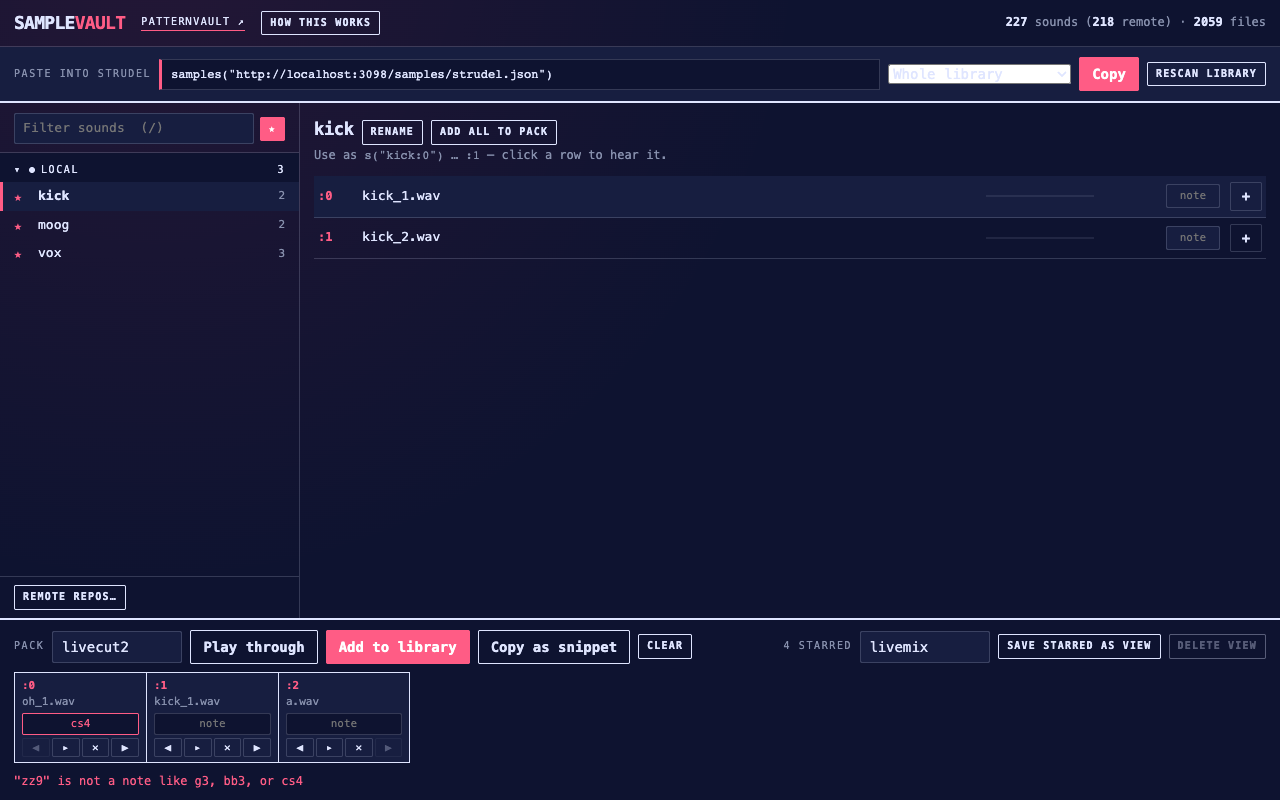
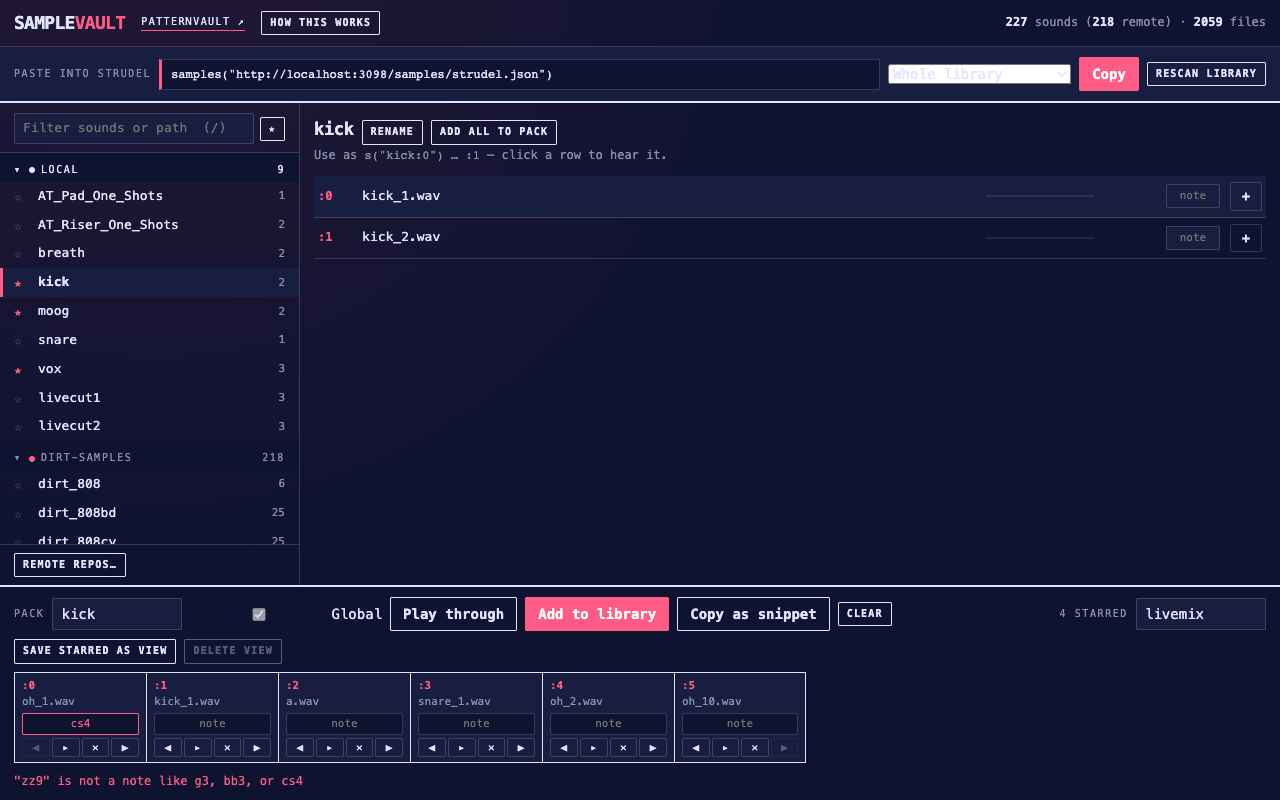
feat: added namespaced pack support

diff --git a/ui/index.html b/ui/index.html
@@ -313,6 +313,7 @@
   <div class="bench-head">
     <span class="lede">Pack</span>
     <input id="packname" value="mypack" spellcheck="false" autocomplete="off">
+    <label style="display:flex;align-items:center;gap:4px"><input type="checkbox" id="packglobal"> <span id="packglobal-lbl">Global</span></label>
     <button class="btn" id="playpack">Play through</button>
     <button class="btn primary" id="publish">Add to library</button>
     <button class="btn" id="copypack">Copy as snippet</button>
@@ -335,7 +336,10 @@ const STORE = 'samplevault:pack'
 
 const state = {
   base: '',
-  sounds: {},
+  baseSounds: {},        // whole-library sounds + global packs, from strudel.json
+  sounds: {},            // baseSounds plus whichever view's scoped packs are active
+  packs: [],             // raw GET /api/packs — every pack, any scope
+  packScope: {},         // sound name -> view, for entries overlaid from a scoped pack
   origin: {},
   sources: [],
   views: [],
@@ -436,6 +440,31 @@ function renderConnect() {
 
 /* ---------- rail ---------- */
 
+/**
+ * Packs scoped to a view are excluded from the whole-library manifest (so
+ * they don't collide with a same-named pack in another view), so they only
+ * become visible/audition-able in the rail while their view is the one
+ * selected up top.
+ */
+function applyScopedPacks() {
+  const chosen = $('viewpick').value
+  state.sounds = { ...state.baseSounds }
+  state.packScope = {}
+  for (const p of state.packs) {
+    if (chosen && p.view === chosen) {
+      state.sounds[p.name] = p.files
+      state.packScope[p.name] = p.view
+    }
+  }
+}
+
+function syncPackGlobal() {
+  const view = $('viewpick').value
+  $('packglobal').disabled = !view
+  $('packglobal').checked = !view
+  $('packglobal-lbl').textContent = view ? `Scope to "${view}"` : 'Global'
+}
+
 function visibleNames() {
   const q = state.filter.toLowerCase()
   return Object.keys(state.sounds).filter((n) => {
@@ -476,7 +505,9 @@ function renderSounds() {
         const dir = p0.includes('/') ? p0.slice(0, p0.lastIndexOf('/')) : p0
         return `
         <button class="sound-btn" data-sound="${esc(name)}" aria-current="${name === state.current}" title="${esc(name)}  —  ${esc(dir)}">
-          <span class="star" role="button" tabindex="-1" data-star="${esc(name)}" aria-pressed="${state.starred.has(name)}" title="Star for a view">${state.starred.has(name) ? '★' : '☆'}</span>
+          ${state.packScope[name]
+            ? `<span class="star" title="Scoped to view &quot;${esc(state.packScope[name])}&quot; — belongs to it automatically">·</span>`
+            : `<span class="star" role="button" tabindex="-1" data-star="${esc(name)}" aria-pressed="${state.starred.has(name)}" title="Star for a view">${state.starred.has(name) ? '★' : '☆'}</span>`}
           <span class="nm">&#8206;${esc(name)}</span>
           <span class="count">${state.sounds[name].length}</span>
         </button>`
@@ -502,6 +533,7 @@ function renderPane() {
 
   const files = state.sounds[state.current] ?? []
   const via = state.origin[state.current]
+  const scope = state.packScope[state.current]
   const noted = files.filter((f) => state.notes[f]).length
   const pitchHint = !files.length ? '' : noted === files.length
     ? `Every file has a note — plays via <code>note("...").s("${esc(state.current)}")</code>, picking the closest match.`
@@ -513,7 +545,8 @@ function renderPane() {
     <div class="sound-title">
       <h2>${esc(state.current)}</h2>
       ${via ? `<span class="via">via ${esc(via)} ↗</span>` : ''}
-      ${!via && state.apiUp ? '<button class="btn tiny" id="rename">Rename</button>' : ''}
+      ${scope ? `<span class="via">scoped to "${esc(scope)}"</span>` : ''}
+      ${!via && !scope && state.apiUp ? '<button class="btn tiny" id="rename">Rename</button>' : ''}
       <button class="btn tiny" id="addall">Add all to pack</button>
     </div>
     <p class="hint">Use as <code>s("${esc(state.current)}:0")</code> … <code>:${files.length - 1}</code> — click a row to hear it.</p>
@@ -881,7 +914,10 @@ $('managesources').addEventListener('click', () => openSources())
 $('viewpick').addEventListener('change', () => {
   const view = state.views.find((v) => v.name === $('viewpick').value)
   if (view) { state.starred = new Set(view.sounds); $('viewname').value = view.name }
-  renderConnect(); renderSounds()
+  applyScopedPacks()
+  syncPackGlobal()
+  if (state.current && !state.sounds[state.current]) state.current = null
+  renderConnect(); renderSounds(); renderPane()
   say(view ? `Loaded view "${esc(view.name)}" — ${view.sounds.length} sounds starred.` : '')
 })
 
@@ -893,13 +929,18 @@ $('clear').addEventListener('click', () => { state.pack = []; renderPack(); say(
 $('publish').addEventListener('click', async () => {
   const existing = await (await fetch(`${API}/packs`)).json()
   const name = packName()
-  const body = existing.filter((p) => p.name !== name).concat({ name, files: state.pack.map((p) => p.path) })
+  const view = $('packglobal').checked || !$('viewpick').value ? null : $('viewpick').value
+  const body = existing
+    .filter((p) => !(p.name === name && (p.view ?? null) === view))
+    .concat({ name, files: state.pack.map((p) => p.path), view })
   const res = await fetch(`${API}/packs`, {
     method: 'PUT', headers: { 'content-type': 'application/json' }, body: JSON.stringify(body),
   })
   const data = await res.json()
   if (!res.ok) return say(`Rejected: ${esc((data.errors || []).join('; '))}`, true)
-  say(`Added — use it now with <code>s("${esc(name)}:0")</code>`)
+  say(view
+    ? `Added to view "${esc(view)}" — use it now there with <code>s("${esc(name)}:0")</code>`
+    : `Added — use it now with <code>s("${esc(name)}:0")</code>`)
   await boot()
 })
 
@@ -922,11 +963,14 @@ $('saveview').addEventListener('click', async () => {
 $('delview').addEventListener('click', async () => {
   const name = $('viewpick').value
   if (!name) return
+  const scoped = state.packs.filter((p) => p.view === name)
+  if (scoped.length) {
+    const names = scoped.map((p) => p.name).join(', ')
+    if (!confirm(`"${name}" has ${scoped.length} pack(s) scoped to it (${names}) that will be deleted too. Continue?`)) return
+  }
   const res = await fetch(`${API}/views/${encodeURIComponent(name)}`, { method: 'DELETE' })
   if (!res.ok) return say('Could not delete that view.', true)
-  state.views = await res.json()
-  $('viewpick').value = ''
-  renderViews(); renderConnect()
+  await boot()
   say(`Deleted view "${esc(name)}".`)
 })
 
@@ -1027,15 +1071,16 @@ function renderViews() {
 async function boot() {
   const doc = await (await fetch(MANIFEST_URL, { cache: 'no-store' })).json()
   state.base = doc._base || ''
-  state.sounds = {}
+  state.baseSounds = {}
   // A fully pitch-noted sound renders in strudel.json as a note -> file map (for Strudel
   // to consume), not a plain array. The UI always works with a flat file list here.
-  for (const [k, v] of Object.entries(doc)) if (k !== '_base') state.sounds[k] = Array.isArray(v) ? v : Object.values(v)
+  for (const [k, v] of Object.entries(doc)) if (k !== '_base') state.baseSounds[k] = Array.isArray(v) ? v : Object.values(v)
 
   state.origin = {}
   state.sources = []
   state.views = []
   state.notes = {}
+  state.packs = []
   try {
     const health = await fetch(`${API}/health`)
     state.apiUp = health.ok
@@ -1043,14 +1088,18 @@ async function boot() {
       state.sources = await (await fetch(`${API}/sources`)).json()
       state.views = await (await fetch(`${API}/views`)).json()
       state.notes = await (await fetch(`${API}/notes`)).json()
+      state.packs = await (await fetch(`${API}/packs`)).json()
       for (const src of state.sources) for (const n of src.sounds) state.origin[n] = src.id
     }
   } catch { state.apiUp = false }
 
   $('refresh').hidden = !state.apiUp
+  renderViews()
+  applyScopedPacks()
+  syncPackGlobal()
   if (state.current && !state.sounds[state.current]) state.current = null
 
-  renderViews(); renderConnect(); renderSounds(); renderPane(); renderPack()
+  renderConnect(); renderSounds(); renderPane(); renderPack()
 }
 
 try {

diff --git a/src/packs.ts b/src/packs.ts
@@ -8,8 +8,11 @@ export interface Validation {
 }
 
 /**
- * A pack is only accepted if its name is usable in mini-notation, does not
- * shadow an indexed sound, and every file it lists actually exists.
+ * A pack is only accepted if its name is usable in mini-notation, every file
+ * it lists actually exists, and it does not collide with another pack in the
+ * same namespace. A pack scoped to a view (`view` set) is that view's private
+ * namespace: it may shadow a global sound name, and its uniqueness is scoped
+ * to that view rather than global.
  */
 export function validate(input: unknown, sounds: Sounds, files: Set<string>): Validation {
   const errors: string[] = []
@@ -26,12 +29,21 @@ export function validate(input: unknown, sounds: Sounds, files: Set<string>): Va
       errors.push(`${where}: name must match [A-Za-z0-9_]+`)
       continue
     }
-    if (sounds[p.name]) {
+    let view: string | null = null
+    if (p.view != null && p.view !== '') {
+      if (typeof p.view !== 'string' || !SAFE_NAME.test(p.view)) {
+        errors.push(`${where}: view must match [A-Za-z0-9_]+`)
+        continue
+      }
+      view = p.view
+    }
+    if (!view && sounds[p.name]) {
       errors.push(`${where}: "${p.name}" already exists as a sound — pick another name`)
       continue
     }
-    if (seen.has(p.name)) {
-      errors.push(`${where}: "${p.name}" is listed twice`)
+    const key = `${view ?? ''} ${p.name}`
+    if (seen.has(key)) {
+      errors.push(`${where}: "${p.name}"${view ? ` in view "${view}"` : ''} is listed twice`)
       continue
     }
     if (!Array.isArray(p.files) || p.files.length === 0) {
@@ -44,10 +56,11 @@ export function validate(input: unknown, sounds: Sounds, files: Set<string>): Va
       continue
     }
 
-    seen.add(p.name)
+    seen.add(key)
     packs.push({
       name: p.name,
       files: [...p.files],
+      view,
       published: typeof p.published === 'string' ? p.published : new Date().toISOString(),
     })
   }

diff --git a/src/server.ts b/src/server.ts
@@ -183,9 +183,12 @@ async function handle(req: IncomingMessage, res: ServerResponse, deps: ServerDep
 
   if (req.method === 'DELETE' && path.startsWith('/api/packs/')) {
     const name = decodeURIComponent(path.slice('/api/packs/'.length))
-    if (!db.packs.some((p) => p.name === name)) return json(res, 404, { error: `no pack named "${name}"` })
+    const view = url.searchParams.get('view')
+    if (!db.packs.some((p) => p.name === name && (p.view ?? null) === view)) {
+      return json(res, 404, { error: `no pack named "${name}"${view ? ` in view "${view}"` : ''}` })
+    }
     await db.update((d) => {
-      d.packs = d.packs.filter((p) => p.name !== name)
+      d.packs = d.packs.filter((p) => !(p.name === name && (p.view ?? null) === view))
     })
     return json(res, 200, db.packs)
   }
@@ -205,6 +208,9 @@ async function handle(req: IncomingMessage, res: ServerResponse, deps: ServerDep
     if (!db.views.some((v) => v.name === name)) return json(res, 404, { error: `no view named "${name}"` })
     await db.update((d) => {
       d.views = d.views.filter((v) => v.name !== name)
+      // Packs namespaced to this view have nowhere left to render — drop them
+      // rather than leaving them to silently reattach if the name is reused.
+      d.packs = d.packs.filter((p) => p.view !== name)
     })
     return json(res, 200, db.views)
   }

diff --git a/src/manifest.ts b/src/manifest.ts
@@ -29,19 +29,23 @@ export function renderManifest(
   view?: View,
 ): Record<string, unknown> {
   const doc: Record<string, unknown> = { _base: cfg.baseUrl }
+  const globalPacks = packs.filter((p) => !p.view)
 
   if (!view) {
     for (const [name, files] of Object.entries(sounds)) doc[name] = renderEntry(files, notes)
-    for (const p of packs) doc[p.name] = renderEntry(p.files, notes)
+    for (const p of globalPacks) doc[p.name] = renderEntry(p.files, notes)
     return doc
   }
 
-  const byPack = new Map(packs.map((p) => [p.name, p.files]))
+  const byPack = new Map(globalPacks.map((p) => [p.name, p.files]))
   for (const name of view.sounds) {
     const files = sounds[name] ?? byPack.get(name)
     // A view can outlive the sound it names — a renamed folder, a removed
     // source. Skip quietly rather than emitting a broken entry.
     if (files) doc[name] = renderEntry(files, notes)
   }
+  // Packs scoped to this view are intrinsic to it — no need to list them in
+  // `sounds` — and take priority over anything already resolved above.
+  for (const p of packs) if (p.view === view.name) doc[p.name] = renderEntry(p.files, notes)
   return doc
 }

diff --git a/src/db.ts b/src/db.ts
@@ -5,6 +5,8 @@ import type { SourceDef } from './sources'
 export interface Pack {
   name: string
   files: string[]
+  /** View this pack is namespaced to, or null for a pack visible everywhere. */
+  view: string | null
   published: string
 }
 

diff --git a/README.md b/README.md
@@ -49,6 +49,14 @@ into. `.cache/` is the only thing samplevault puts on the samples volume, and
 <td><img src="docs/screenshots/view-saved.png" width="330"></td>
 </tr>
 <tr>
+<td align="center"><b>Publishing a namespaced pack</b></td>
+<td align="center"><b>A pack scoped to one view</b></td>
+</tr>
+<tr>
+<td><img src="docs/screenshots/namespaced-pack-published.png" width="330"></td>
+<td><img src="docs/screenshots/namespaced-pack-scoped.png" width="330"></td>
+</tr>
+<tr>
 <td align="center"><b>Phone</b></td>
 <td align="center"><b>Dark mode</b></td>
 </tr>
@@ -242,6 +250,14 @@ whichever view is selected.
 Views are references, not copies. Rename a folder and the view quietly drops the
 sound it can no longer find rather than emitting a broken entry.
 
+**Namespaced packs.** A pack can be scoped to one view instead of published
+globally — the checkbox next to the pack name in the builder defaults to
+scoping it to whichever view is selected up top. A scoped pack belongs to that
+view automatically (no need to star it in), is invisible from the whole-library
+manifest and every other view, and may reuse a name already taken elsewhere —
+so `kit_a` and `kit_b` can each have their own `bd`/`hh`/`sd` without
+collisions. Deleting a view deletes its scoped packs with it.
+
 ### Pitch
 
 By default a sound plays by index — `s("moog:0")`. If you type a note (`g3`,
@@ -271,7 +287,7 @@ Two ways out of the pack builder:
 | | What happens | Persistence |
 | --- | --- | --- |
 | **Copy snippet** | `samples({ name: [...] }, base)` on your clipboard | localStorage only — truly ephemeral |
-| **Publish** | written to the UI store, merged into every manifest | permanent; `s("mix1:0")` works in any pattern |
+| **Publish** | written to the UI store, merged into every manifest (or scoped to one view — see [Namespaced packs](#views)) | permanent; `s("mix1:0")` works in any pattern |
 
 Publish hides itself when the API is unreachable. `READ_ONLY=1` serves manifests
 and audio normally but rejects every write, which is the mode to use if you ever
@@ -378,12 +394,16 @@ Reached at `/samples/api/` through nginx.
 | `GET /api/remote/:id/*` | proxies one remote file, caching it to disk |
 | `GET /api/packs` | published packs |
 | `PUT /api/packs` | replaces all packs (validated), rewrites the manifest |
-| `DELETE /api/packs/:name` | removes one pack, rewrites the manifest |
+| `DELETE /api/packs/:name`, optional `?view=` | removes one pack, rewrites the manifest — without `?view=` this only touches the global pack of that name, leaving any view-scoped pack sharing the name alone |
 
-A pack is rejected with `422` if its name is outside `[A-Za-z0-9_]`, collides
-with a folder-derived sound, is listed twice, has no files, or references a file
-that is not in the library. Validation runs before the write, so `strudel.json`
-can never point at a missing file.
+A pack is rejected with `422` if its name is outside `[A-Za-z0-9_]`, is listed
+twice within the same scope, has no files, or references a file that is not in
+the library. A *global* pack (no `view`) is also rejected if its name collides
+with a folder-derived sound — a pack scoped to a view is allowed to shadow one,
+since that's the whole point of namespacing it (see [Namespaced
+packs](#views)). Validation runs before the write, so `strudel.json` can never
+point at a missing file. Deleting a view (`DELETE /api/views/:name`) cascades
+to delete every pack scoped to it.
 
 ```bash
 curl -X PUT https://strudel.example.com/samples/api/packs \
